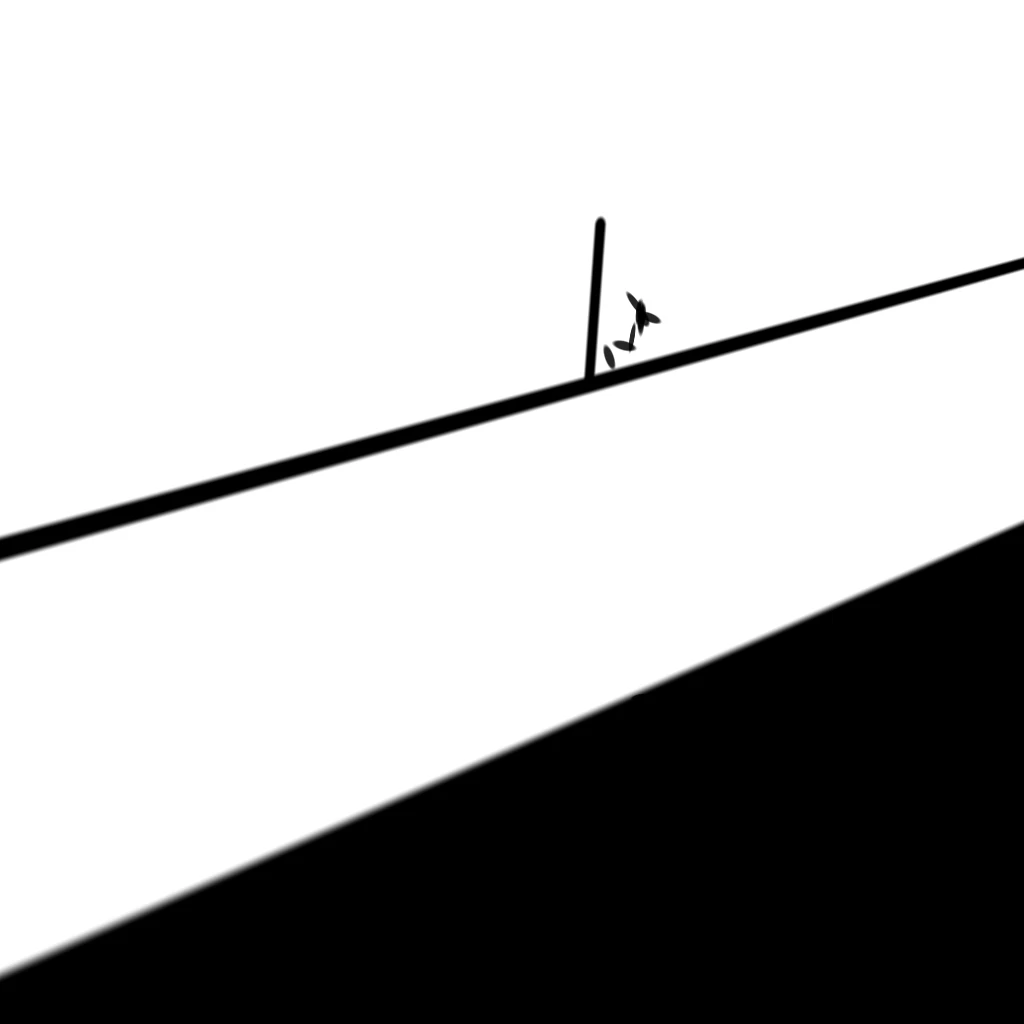
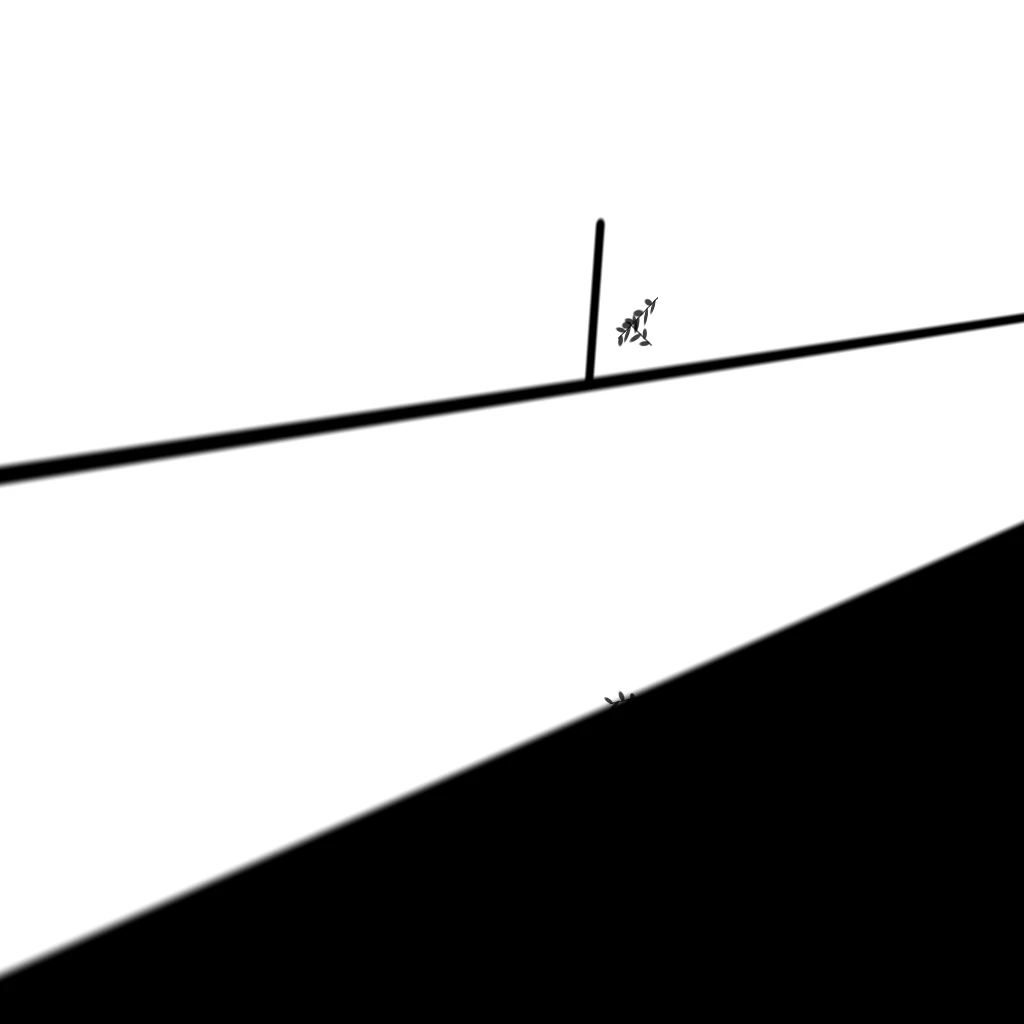
Phone r7: phone-drawn window gobo with leaf sprigs; lighter phone vignette
Claude-Session: https://claude.ai/code/session_016nJieuj3hz1PRLzcMUTyK7

Changed region(s): [[0.0, 0.2188, 1.0, 0.5625], [0.5938, 0.6562, 0.625, 0.6875]]

diff --git a/tools/bake/manifest.js b/tools/bake/manifest.js
@@ -276,28 +276,39 @@ const phoneHelloGobo = () => {
   };
   const rand = random(17);
   const leaves = [];
-  const leaf = (x0, x1, y0, y1, n) => {
+  // Leaves along a twig from `a` to `b`, alternating sides, each pointing out
+  // and along it.
+  const twigs = [];
+  const sprig = ([ax, ay], [bx, by], n) => {
+    twigs.push([[ax, ay], [bx, by]]);
+    const along = Math.atan2(by - ay, bx - ax);
     for (let k = 0; k < n; k += 1) {
-      leaves.push({ x: x0 + rand() * (x1 - x0), y: y0 + rand() * (y1 - y0), a: rand() * Math.PI, rx: 16 + rand() * 18, ry: 6 + rand() * 5 });
+      const t = (k + 0.5 + (rand() - 0.5) * 0.4) / n;
+      const side = k % 2 ? 1 : -1;
+      const a = along + side * (0.5 + rand() * 0.5);
+      const rx = 8 + rand() * 7;
+      leaves.push({ x: ax + (bx - ax) * t + Math.cos(a) * rx, y: ay + (by - ay) * t + Math.sin(a) * rx, a, rx, ry: 3.5 + rand() * 2.5 });
     }
   };
-  leaf(262, 380, 70, 170, 9); // in the window corner, clear of the labels
-  leaf(250, 400, 826, 870, 5); // in the shade under the chips
+  sprig([392, 70], [292, 128], 9); // in the window corner, clear of the labels
+  sprig([380, 150], [318, 105], 5);
+  sprig([400, 838], [300, 822], 6); // in the shade under the chips
   for (let y = 0; y < size; y += 1) {
     for (let x = 0; x < size; x += 1) {
       const [sx, sy] = toScreen(x + 0.5, y + 0.5);
       let lit = 1;
       // Sill bar: in the gap between the name and the collage, rising a little to the right.
-      lit *= step(9, 19, Math.abs(sy - (199 - 0.05 * (sx - 195))));
+      lit *= step(5, 17, Math.abs(sy - (197 + 0.035 * (sx - 195))));
       // Mullion: down the gap between the two label groups, stopping at the sill.
-      if (sy < 205) lit *= step(8, 17, segment(sx, sy, [238, -60], [219, 200]));
+      if (sy < 205) lit *= step(6, 15, segment(sx, sy, [238, -60], [219, 200]));
+      for (const [a, b] of twigs) lit *= 0.35 + 0.65 * step(0.6, 2.2, segment(sx, sy, a, b));
       // Shade below the window, under the chips.
       lit *= 1 - step(812, 838, sy);
       for (const { x: lx, y: ly, a, rx, ry } of leaves) {
         const dx = sx - lx; const dy = sy - ly;
         const u = (dx * Math.cos(a) + dy * Math.sin(a)) / rx;
         const v = (-dx * Math.sin(a) + dy * Math.cos(a)) / ry;
-        lit *= 0.15 + 0.85 * step(0.8, 1.25, Math.hypot(u, v));
+        lit *= 0.25 + 0.75 * step(0.7, 1.35, Math.hypot(u, v));
       }
       const i = (y * size + x) * 4;
       const value = Math.round(255 * lit);

diff --git a/site/css/phone.css b/site/css/phone.css
@@ -1,7 +1,7 @@
 /* ---- phones: name on top, memories in the middle, words at the bottom ---- */
 @media (max-aspect-ratio: 1/1) {
   :root { --pad: 6vw; --chapter-top: calc(var(--vh) * 9); }
-  .bar { font-size: 9px; letter-spacing: 0.12em; }
+  .bar { font-size: 9px; letter-spacing: 0.12em; color: rgba(52, 32, 20, 0.9); } /* small, so a touch darker than desktop */
   .bar span:nth-child(3) { display: none; }
   .name { top: calc(var(--vh) * 8); font-size: 17vw; }
   .riso { margin-left: 8vw; }
